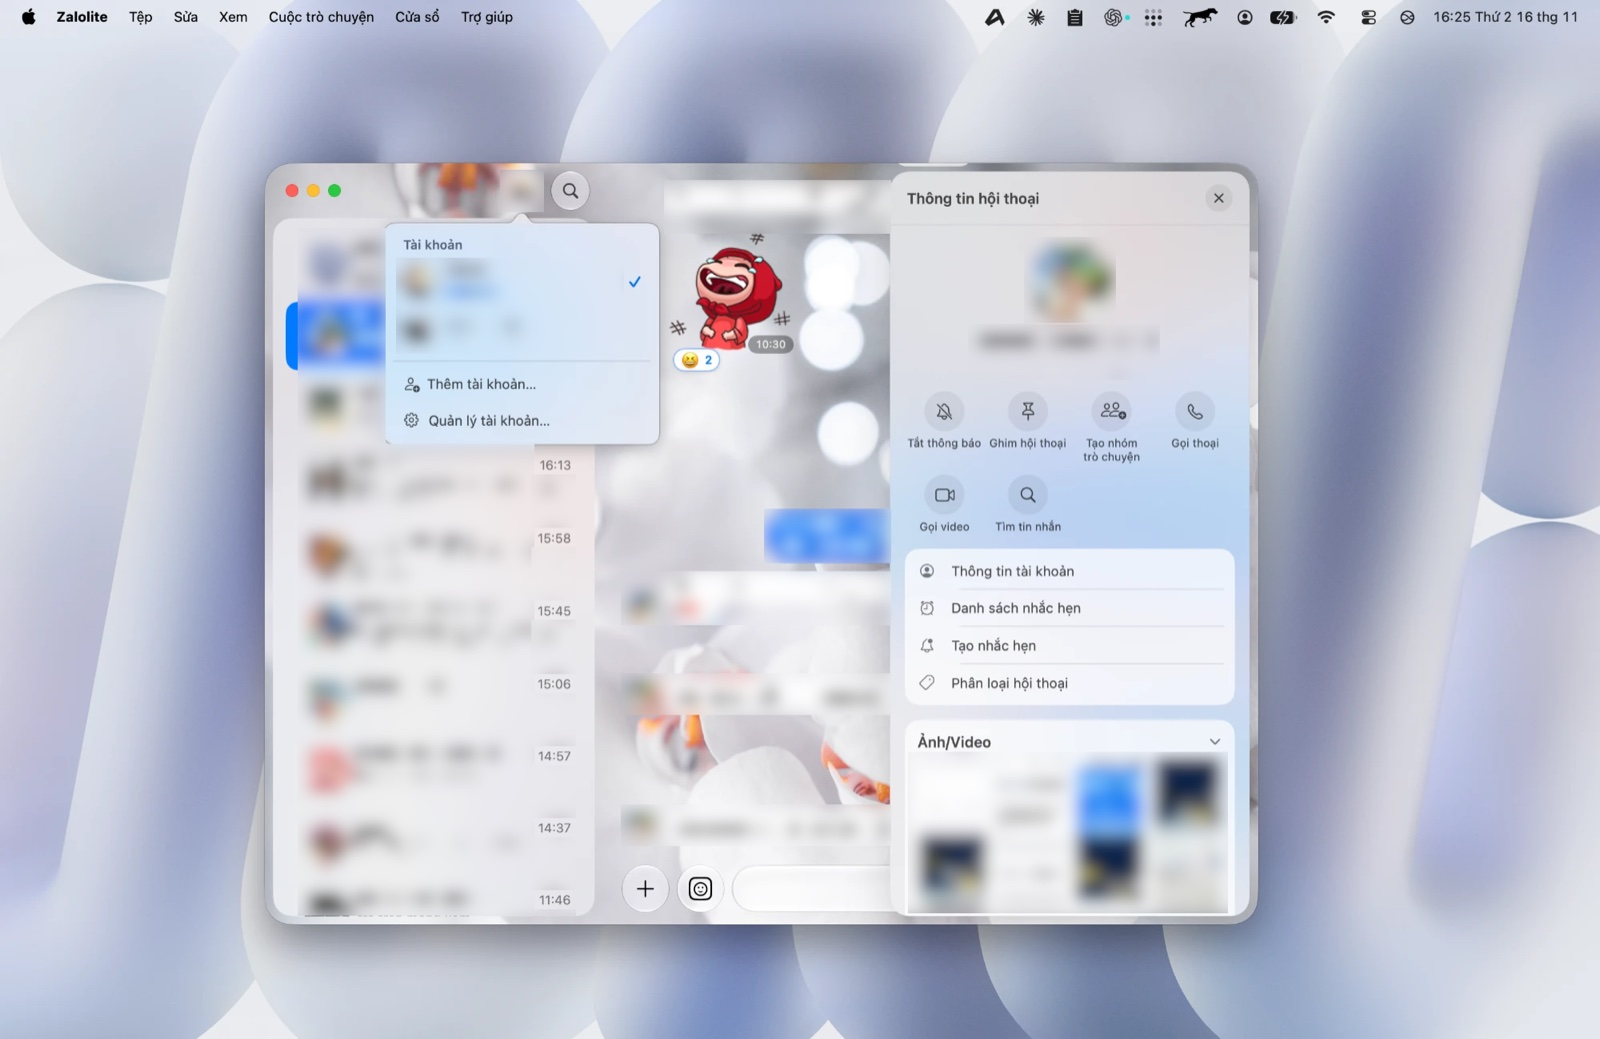
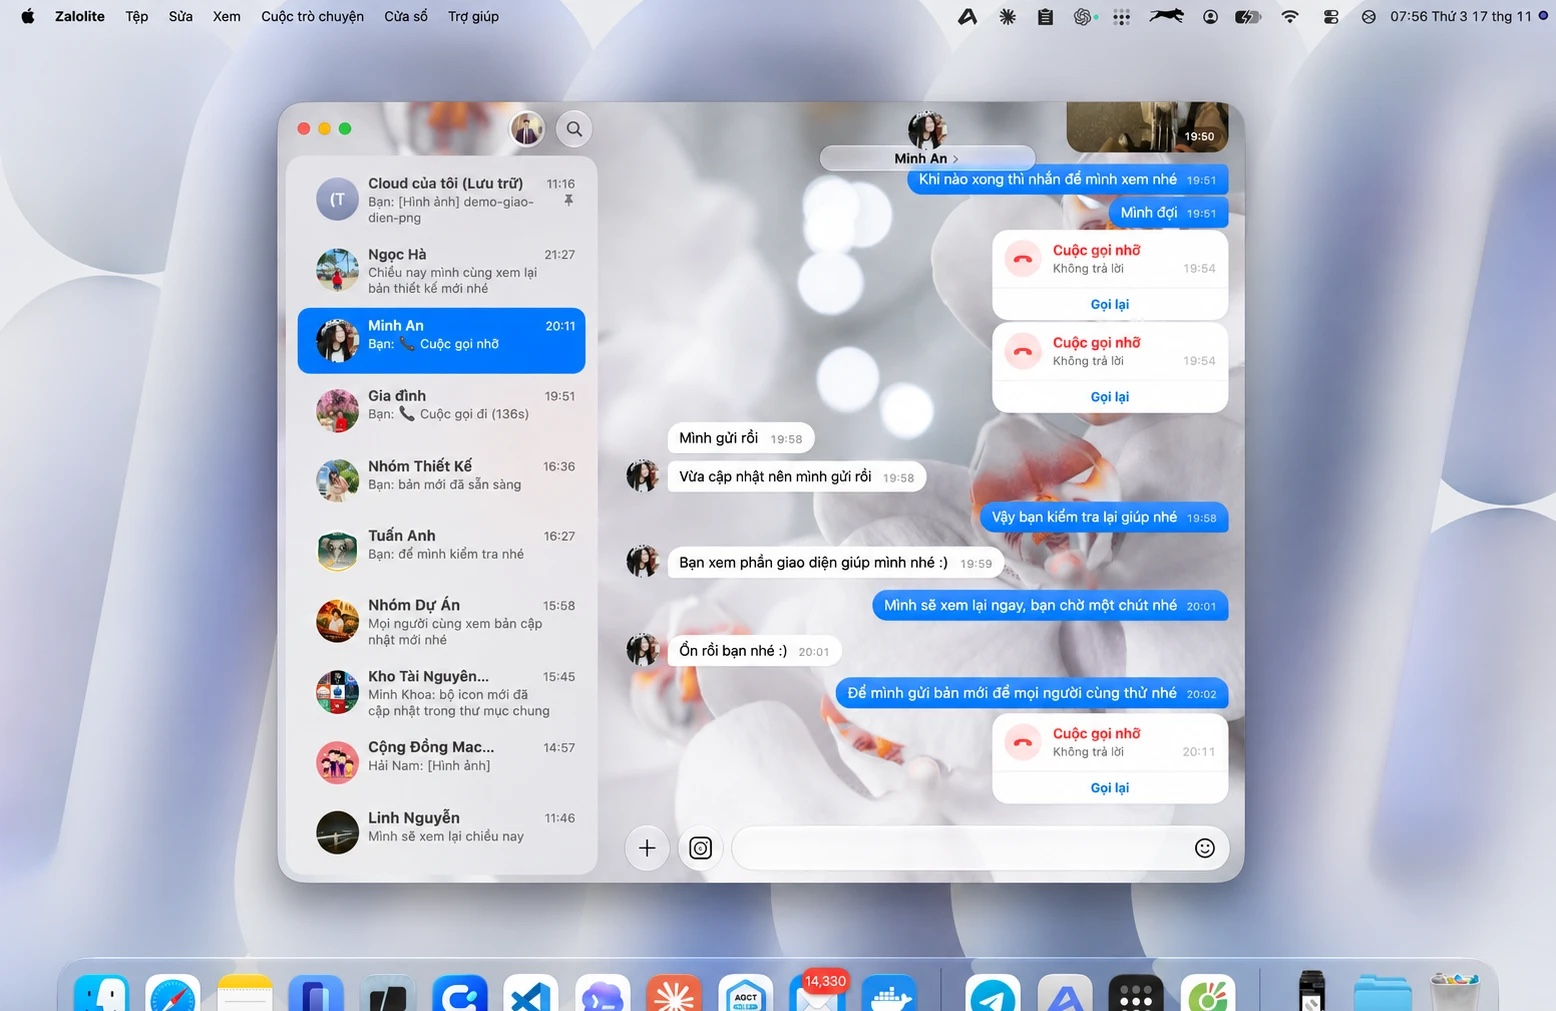
docs(readme): add new screenshots and comparison with Zalo PC
Replace the blurred screenshots with new ones of the chat, conversation
info and appearance settings. Add a section comparing Zalolite with
Zalo PC 26.11.10 (technology, installed size, interface, hidden-chat
unlock) and listing Zalolite-specific features.

diff --git a/README.md b/README.md
@@ -23,9 +23,9 @@ Không Electron, không Chromium, không Node.js.
 
 <br>
 
-<img src="docs/screenshots/main.jpg" alt="Cửa sổ chính Zalolite: danh sách hội thoại, khung trò chuyện, menu tài khoản và thông tin hội thoại" width="900">
+<img src="docs/screenshots/main.jpg" alt="Cửa sổ chính Zalolite: danh sách hội thoại, khung trò chuyện với hình nền riêng và thẻ cuộc gọi" width="900">
 
-<sub>Ảnh chụp trên macOS 26 với Liquid Glass. Tên, ảnh đại diện và nội dung tin nhắn đã được làm mờ.</sub>
+<sub>Ảnh chụp trên macOS 26 với Liquid Glass và hình nền cuộc trò chuyện tự chọn.</sub>
 
 </div>
 
@@ -41,12 +41,33 @@ Không Electron, không Chromium, không Node.js.
 | 🔒 **Riêng tư** | Session, khóa và lịch sử chỉ nằm trên máy bạn. Không máy chủ trung gian, không thu thập dữ liệu. |
 | 🗂 **Mang lịch sử theo** | Nhập bản sao lưu Zalo PC (`.zl.zip`), đồng bộ tin nhắn từ điện thoại. |
 
+## Điểm nổi bật so với Zalo PC
+
+So sánh với Zalo PC 26.11.10 cho macOS, đo trên cùng một máy Apple Silicon.
+
+| | Zalolite | Zalo PC |
+| :--- | :--- | :--- |
+| Công nghệ | SwiftUI/AppKit native + lõi Rust | Electron (Chromium + Node.js) |
+| Dung lượng sau cài đặt | **≈ 35 MB** (bộ cài ≈ 13 MB) | ≈ 766 MB |
+| Giao diện | Liquid Glass của macOS 26, theo chế độ sáng/tối của hệ thống | Giao diện web dùng chung cho Windows và macOS |
+| Mở hội thoại ẩn | **Touch ID** hoặc mật khẩu máy | Mã PIN riêng |
+
+**Trải nghiệm riêng của Zalolite**
+
+- 🎨 **Hình nền cho cuộc trò chuyện** — bảng màu có sẵn, ảnh đại diện làm mờ hoặc ảnh của bạn, kèm thanh làm dịu ảnh để chữ luôn dễ đọc.
+- 👥 **Nhiều tài khoản trong một cửa sổ** — chuyển tài khoản ngay từ nút ảnh đại diện trên thanh công cụ, dữ liệu tách riêng từng tài khoản.
+- 🔎 **Tìm trong hội thoại rõ ràng** — đếm `n/N`, nhảy qua lại bằng Enter / ⇧Enter, tô vàng từ khóa ngay trong bong bóng.
+- 📞 **Thẻ cuộc gọi gọn** — loại cuộc gọi, thời lượng hoặc lý do (không trả lời, từ chối) và nút Gọi lại trong cùng một thẻ.
+- 🗄 **Lịch sử thuộc về bạn** — lưu SQLite trên máy, nhập được bản sao lưu `.zl.zip` của Zalo PC, xuất dữ liệu khi cần.
+
+<sub>Zalolite chưa thay thế đầy đủ Zalo PC; xem <a href="docs/BA_FEATURE_COVERAGE.md">phạm vi chức năng</a>.</sub>
+
 ## Ảnh giao diện
 
 <table>
   <tr>
+    <td width="50%"><img src="docs/screenshots/info.jpg" alt="Thông tin hội thoại và menu chuyển tài khoản"><br><sub><b>Thông tin hội thoại &amp; nhiều tài khoản</b> — tác vụ nhanh, nhắc hẹn, ảnh/video; chuyển tài khoản từ thanh công cụ</sub></td>
     <td width="50%"><img src="docs/screenshots/settings.jpg" alt="Cài đặt giao diện: chế độ màu và hình nền cuộc trò chuyện"><br><sub><b>Giao diện</b> — chế độ sáng/tối, hình nền có sẵn hoặc ảnh của bạn</sub></td>
-    <td width="50%"><img src="docs/screenshots/accounts.jpg" alt="Cài đặt tài khoản: nhiều tài khoản trên một máy"><br><sub><b>Tài khoản &amp; khóa</b> — nhiều tài khoản, chuyển nhanh, khóa ứng dụng</sub></td>
   </tr>
 </table>
 
